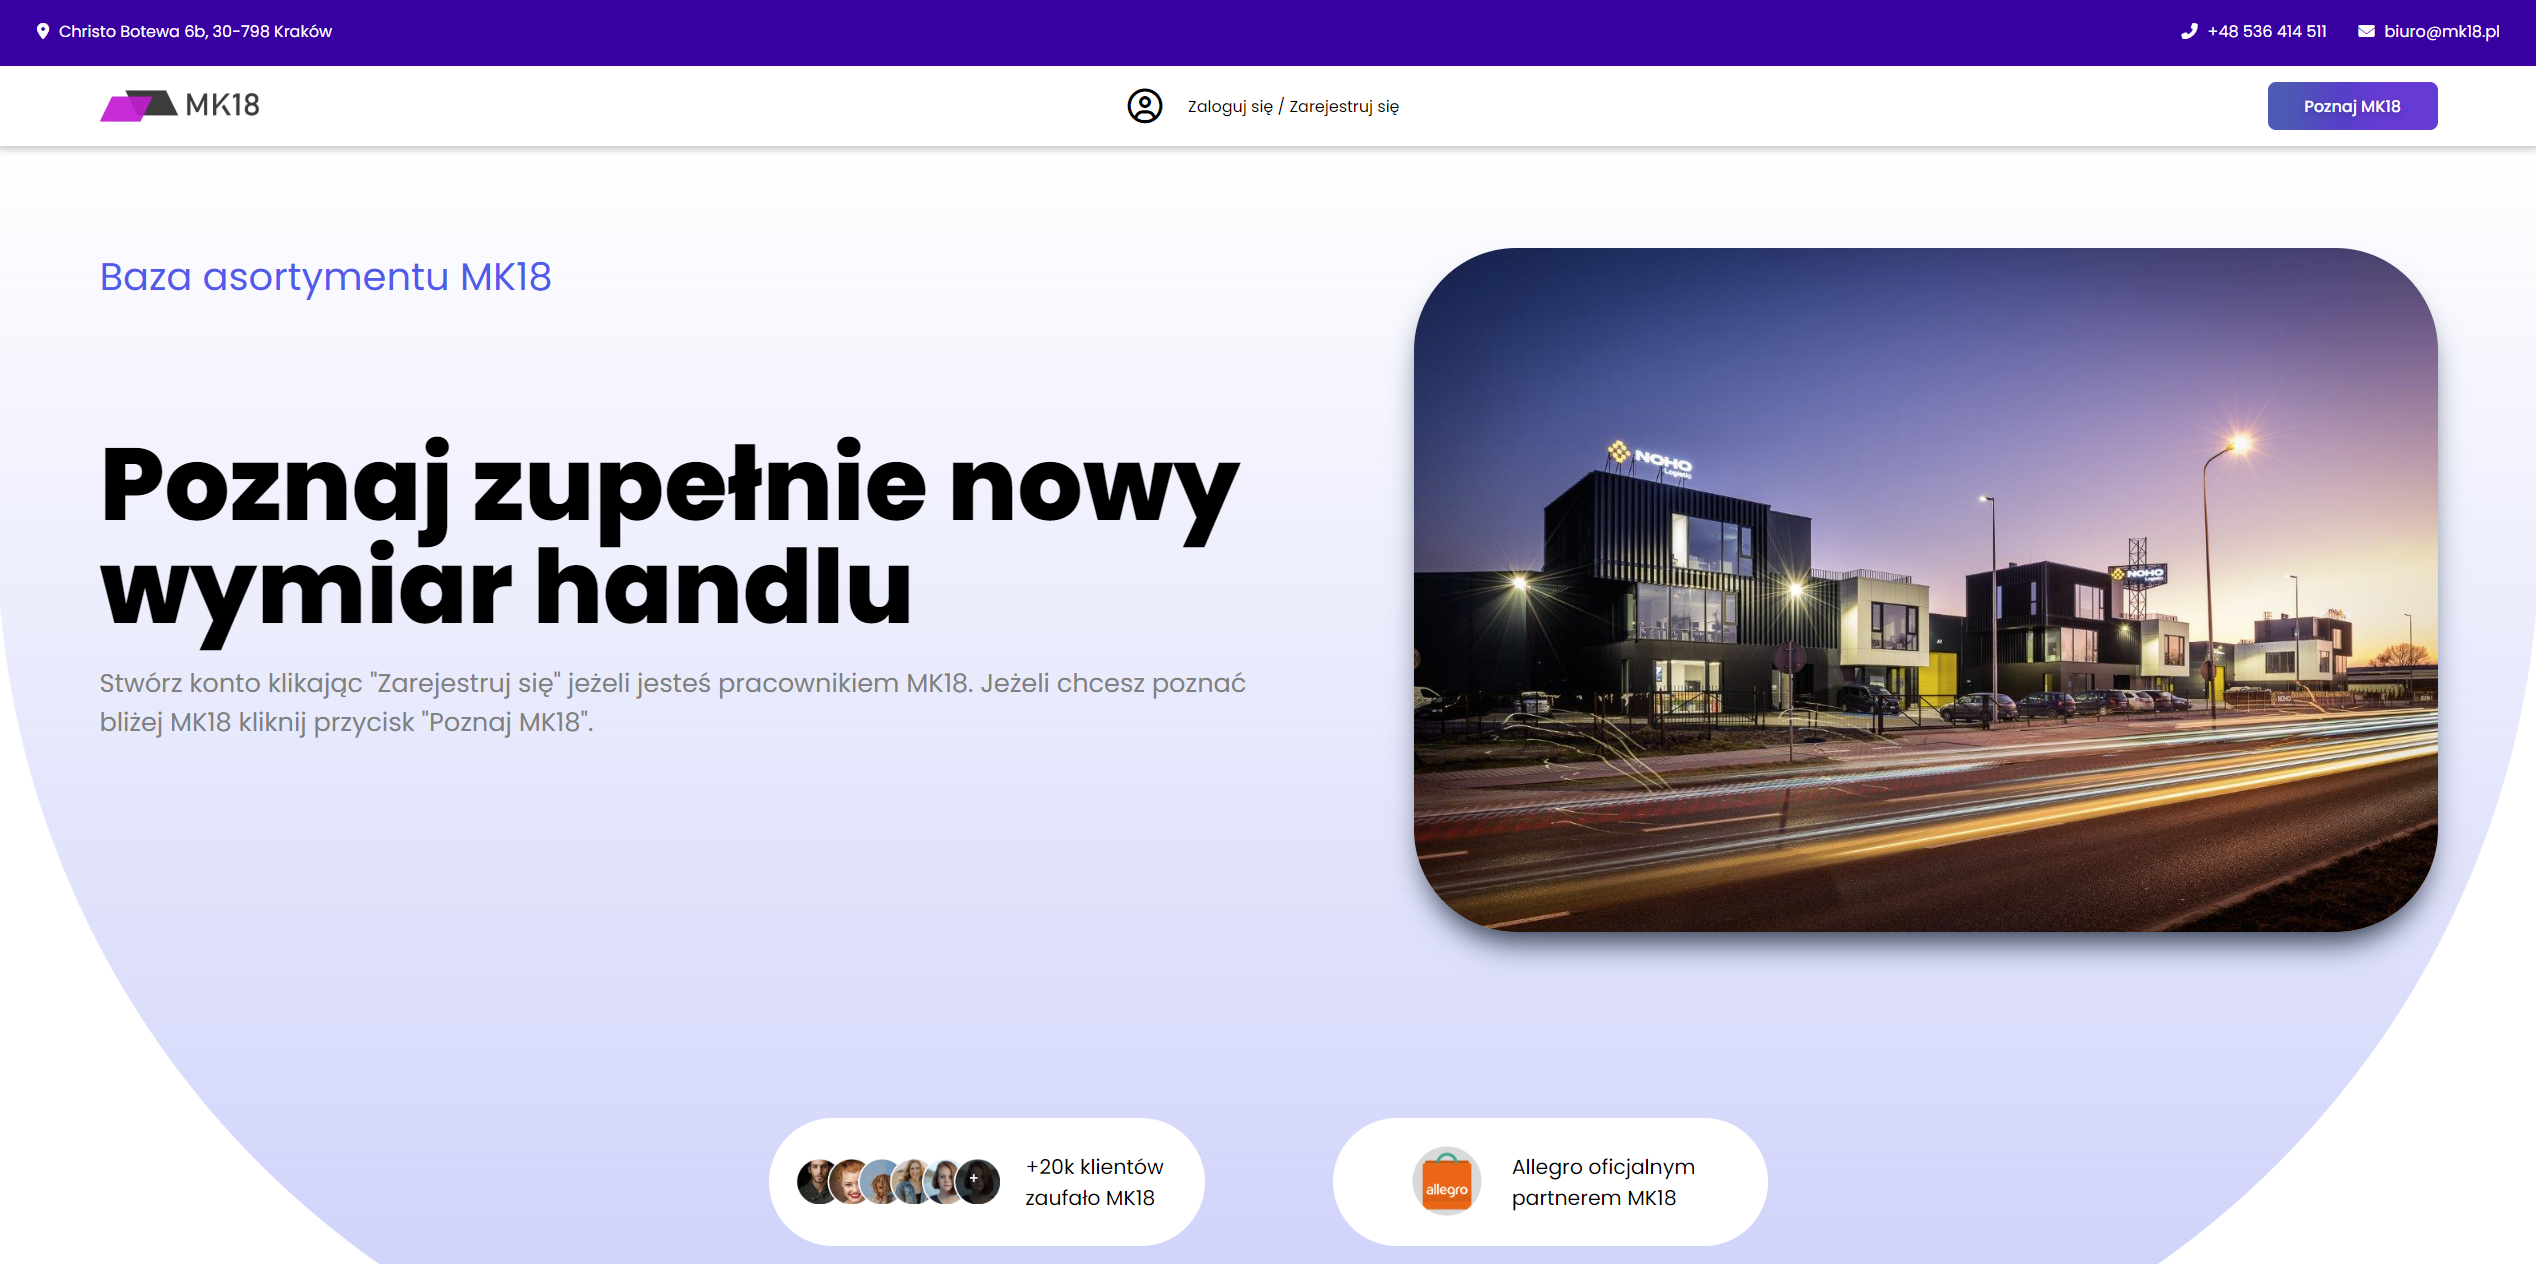
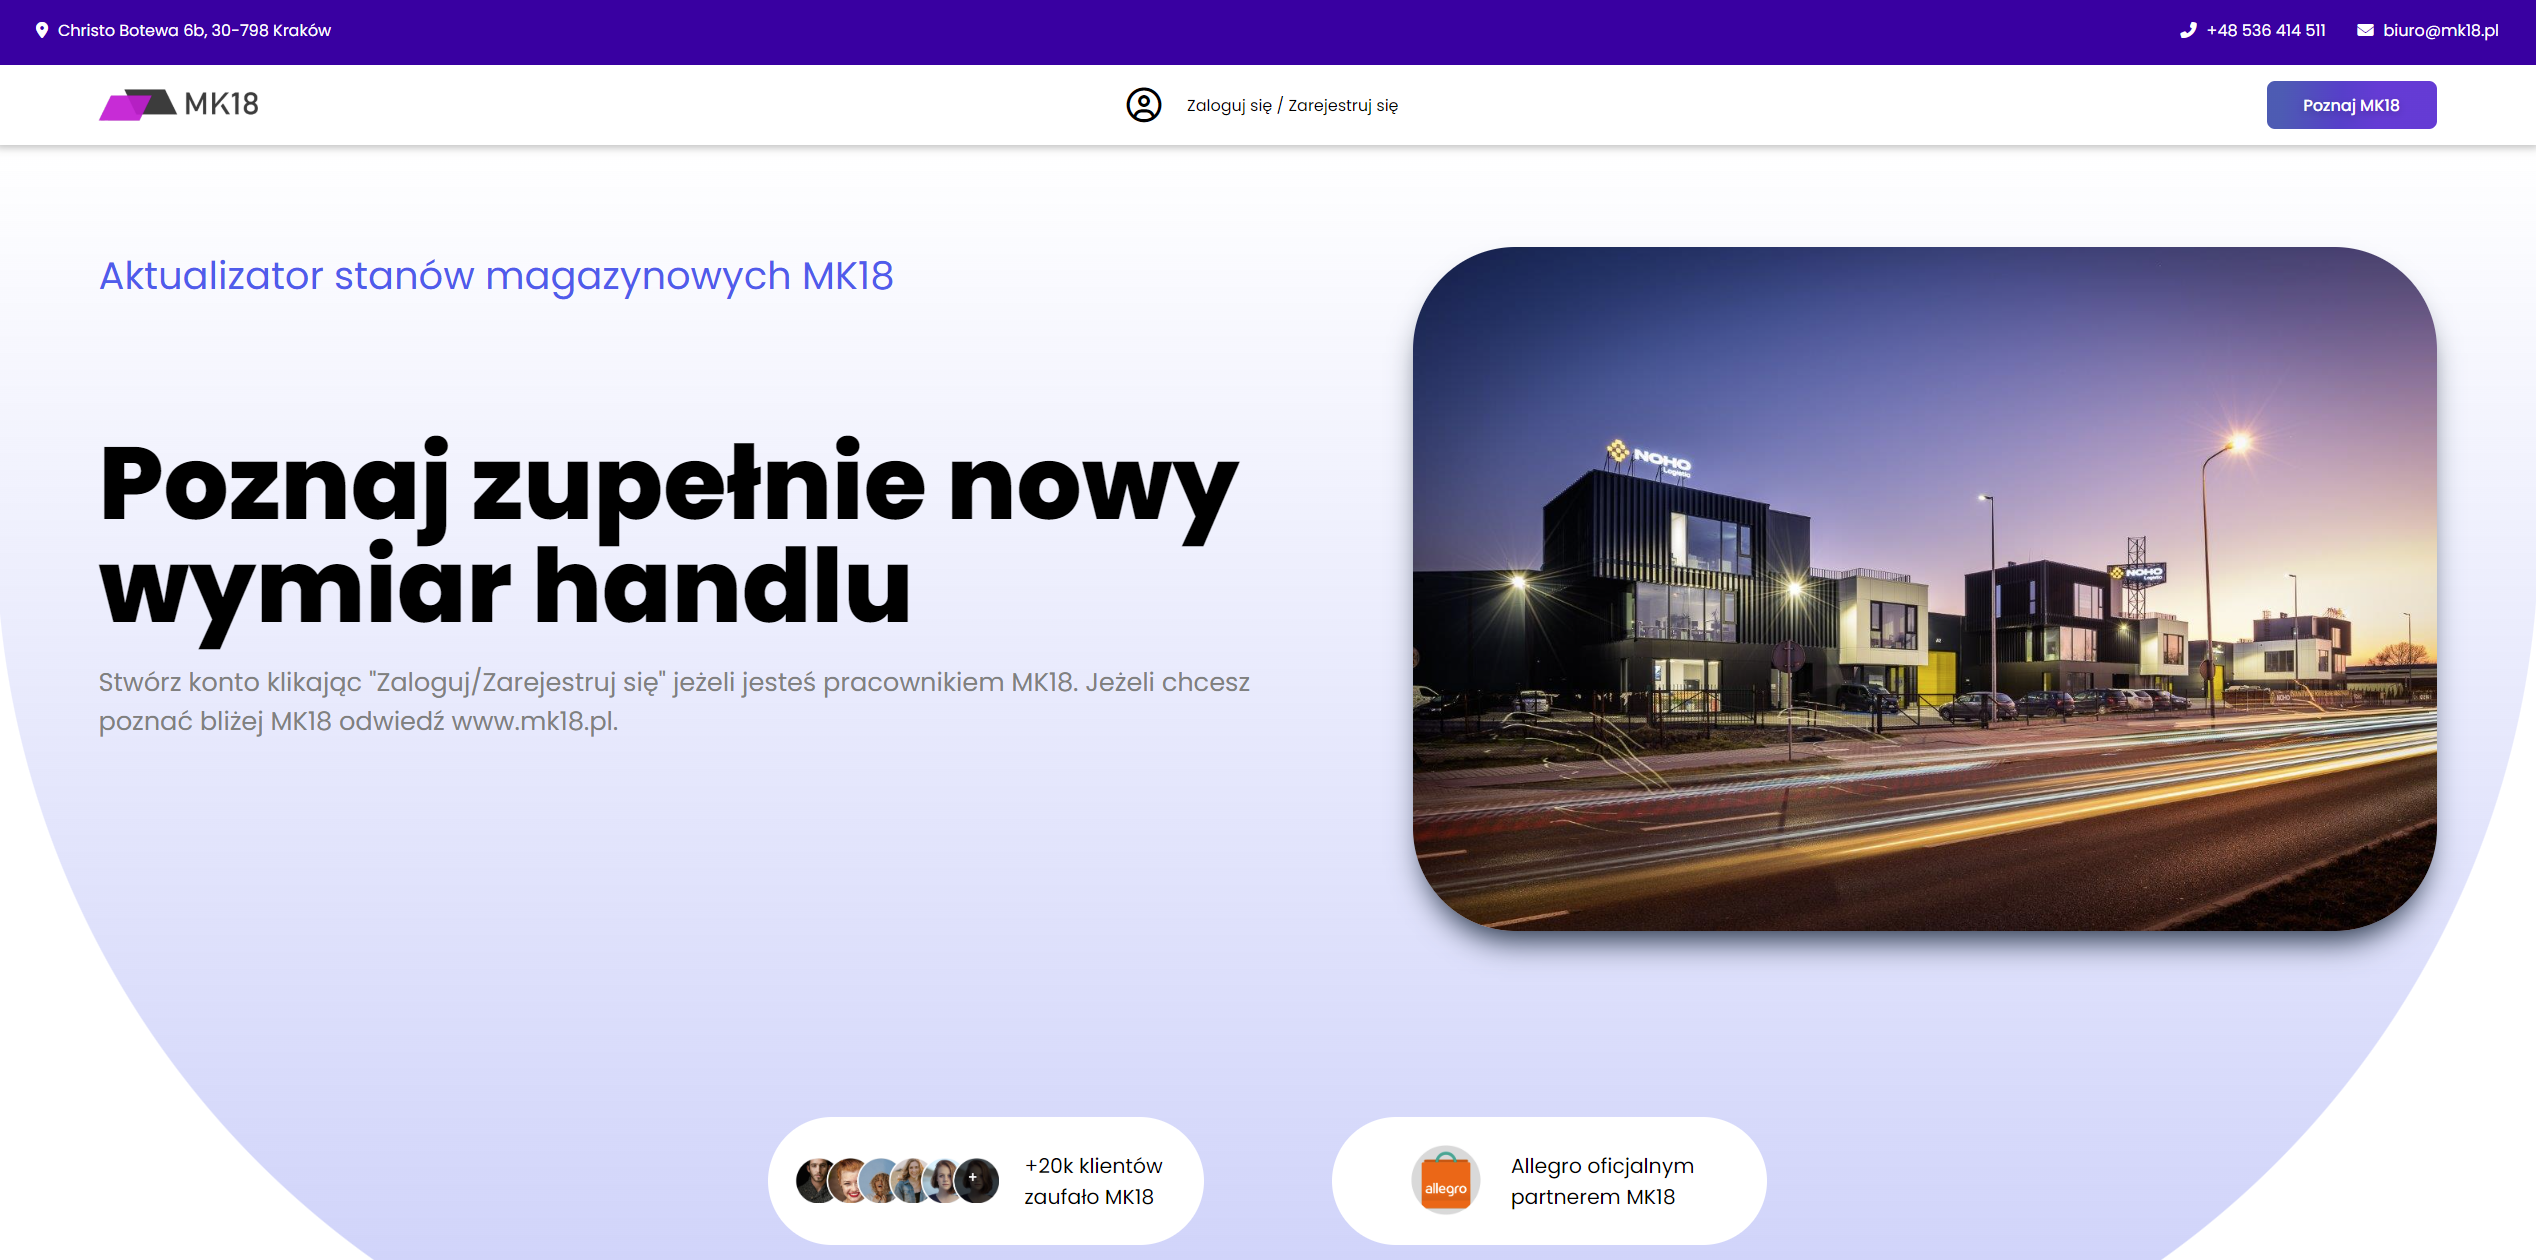
RM Update 08.11.24

diff --git a/public/views/dashboard.html b/public/views/dashboard.html
@@ -42,7 +42,7 @@
             <div class="wrapper">
                 <div class="text-section">
                     <p class="text-one">
-                        Baza asortymentu MK18
+                        Aktualizator stanów magazynowych MK18
                     </p>
                     <p class="text-two">
                         Poznaj zupełnie nowy wymiar handlu

diff --git a/public/styles/style.css b/public/styles/style.css
@@ -445,6 +445,10 @@ footer {
         width: 12vw;
     }
 
+    .mobile-footer > p {
+        font-size: 2vw;
+    }
+
     .text-collab {
         display: none;
     }
